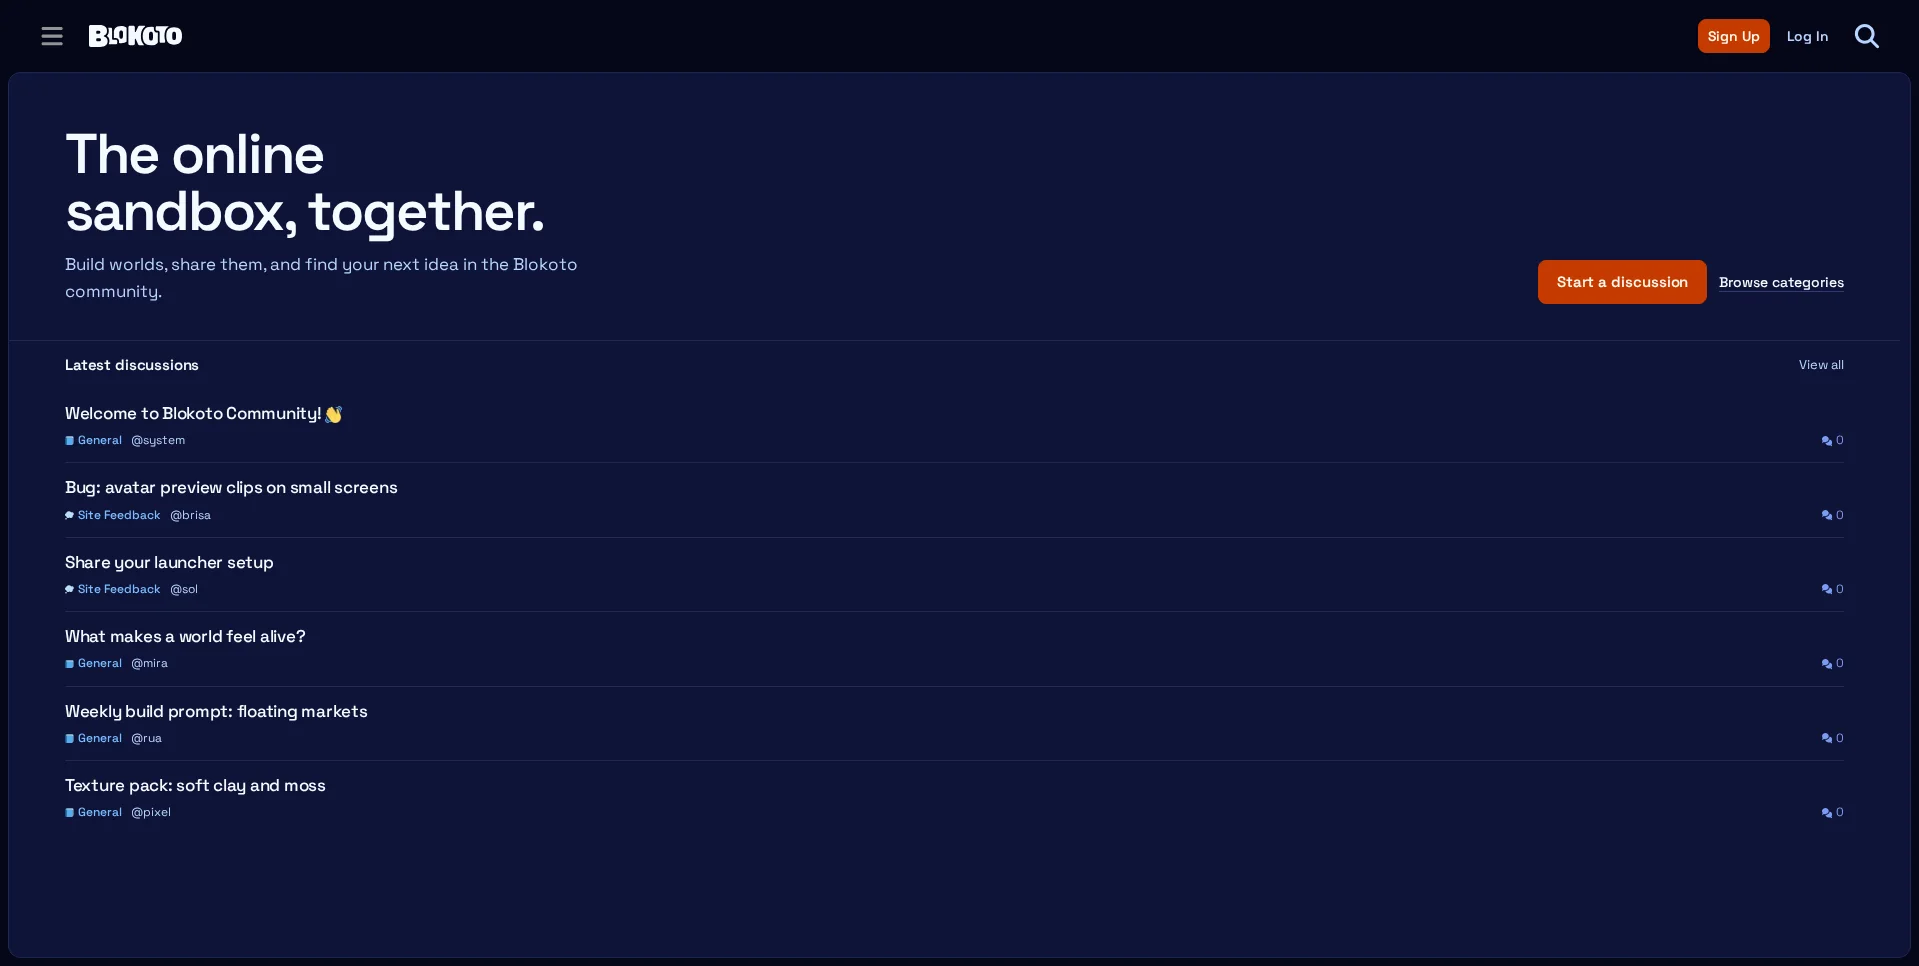
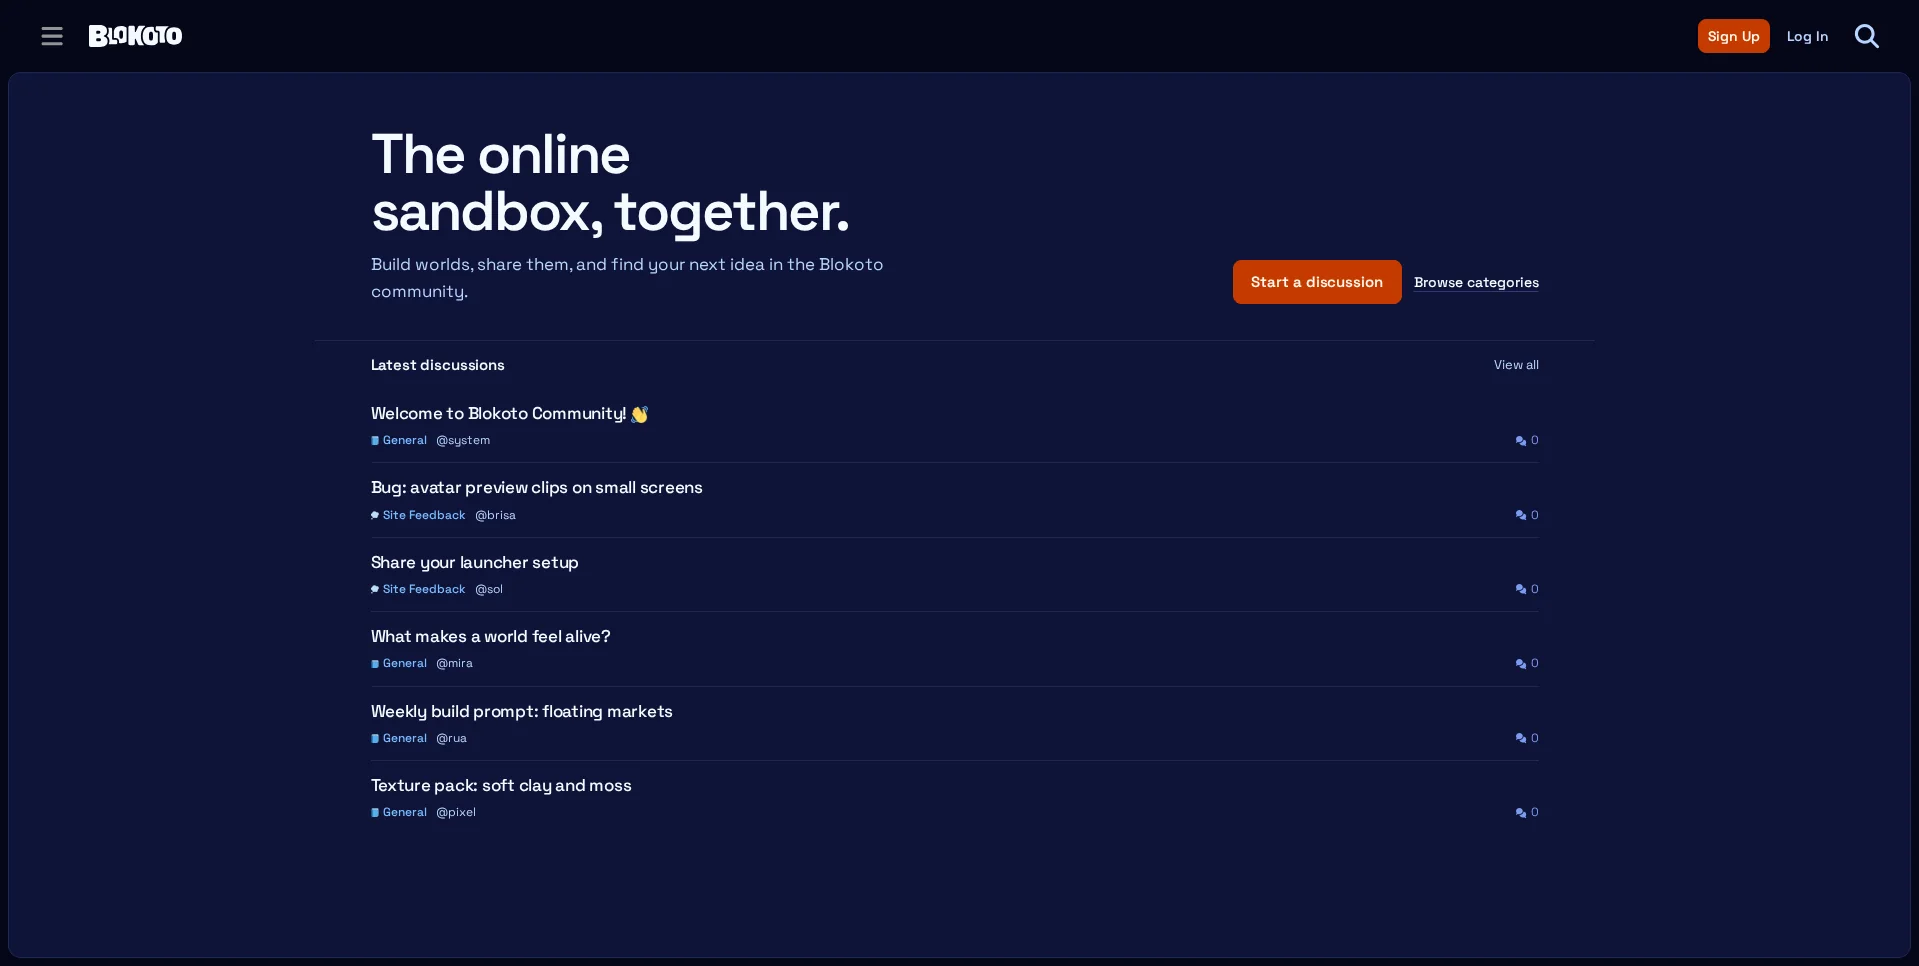
Center content inside the full-width island shell

diff --git a/stylesheets/blocks/block-home.scss b/stylesheets/blocks/block-home.scss
@@ -29,7 +29,11 @@
 }
 
 .blokoto-home__intro {
+  box-sizing: border-box;
   display: grid;
+  width: 100%;
+  max-width: var(--t-Blokoto-content-width);
+  margin-inline: auto;
   grid-template-areas:
     "title actions"
     "subtitle actions";
@@ -92,7 +96,11 @@
 }
 
 .blokoto-home__latest {
+  box-sizing: border-box;
+  width: 100%;
+  max-width: var(--t-Blokoto-content-width);
   padding: 0 clamp(1.25rem, 4vw, 3.5rem) var(--space-2);
+  margin-inline: auto;
   border-top: 1px solid var(--t-Blokoto-color-border);
 }
 

diff --git a/stylesheets/app/base.scss b/stylesheets/app/base.scss
@@ -60,7 +60,11 @@ body .welcome-banner {
   min-width: 0;
   min-height: 0;
   height: 100%;
-  padding: var(--space-5);
+  padding-block: var(--space-5);
+  padding-inline: max(
+    var(--space-5),
+    calc((100% - var(--t-Blokoto-content-width)) / 2)
+  );
   overflow-y: auto;
   overscroll-behavior: contain;
   background: var(--t-Blokoto-color-surface);

diff --git a/stylesheets/brand/colors.scss b/stylesheets/brand/colors.scss
@@ -14,6 +14,7 @@
   --t-Blokoto-color-on-button: #fff8f3;
   --t-Blokoto-color-grid: light-dark(#7d9bf1, #73eff7);
   --t-Blokoto-header-height: 4rem;
+  --t-Blokoto-content-width: 80rem;
   --t-Blokoto-radius: 0.75rem;
   --t-Blokoto-radius-small: 0.5rem;
 }

diff --git a/README.md b/README.md
@@ -20,6 +20,9 @@ purpose: get people into current discussions.
   8px gap.
 - **Frontend corner language.** Every island uses a 12px radius, matching the
   Frontend's `rounded-xl` surfaces.
+- **Centered content inside the full-width shell.** The main island keeps its
+  full-width background and border; its content is capped at `80rem` and centered
+  with `margin-inline: auto`.
 - **The page never scrolls.** `html`/`body` are viewport-height and locked. The main
   island and the sidebar are independent scroll containers; the page chrome stays
   put.
@@ -73,6 +76,8 @@ homepage. The rest of the sidebar is Discourse's normal navigation.
   at 1919px the main island is 1903px wide.
 - `--t-Blokoto-radius` is `0.75rem` (12px) and is shared by the main island,
   homepage surface, sidebar, and topic list.
+- `--t-Blokoto-content-width` is `80rem`. Homepage intro/latest sections use it
+  directly; core pages get the same width through symmetric island padding.
 - `html`, `body`, and `#main-outlet-wrapper` are locked to `100dvh`; the body has
   `overflow: hidden`.
 - The main island is `overflow-y: auto`; the homepage uses the same rule on
